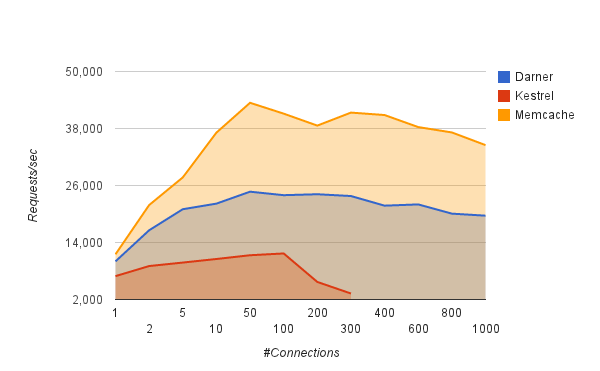
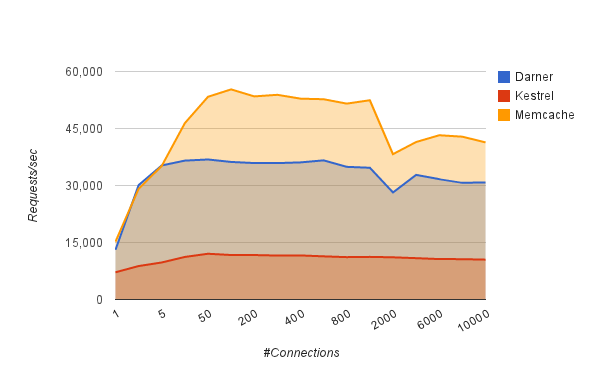
benchmark updates
* use latest Darner
* now that our bencher works better with Kestrel, try even higher concurrency
* express queue packing X-axis as bytes instead of items
* go even further in X-axis of memory resident, queue flooding, queue packing

diff --git a/docs/benchmarks.md b/docs/benchmarks.md
@@ -2,39 +2,43 @@ Benchmark Details:
 
 * [Amazon EC2 m1.large](http://aws.amazon.com/ec2/instance-types/): 7.5GB memory, 2 virtual cores
 * 64-bit Ubuntu 11.10
-* Darner 0.0.1, compiled Boost 1.46 and leveldb 1.5.0
+* Darner 0.1.3, compiled Boost 1.46 and leveldb 1.2.0
 * Kestrel 2.2.0 with OpenJDK 1.6
 
 # Resident Memory
 
 How much memory does the queue server use?  We are testing both steady-state memory resident, and also how aggressively
 the server acquires and releases memory as queues expand and contract.  We tuned Kestrel's JVM down to the smallest
-heap that didn't cause OOM's and didn't impact performance: `-Xmx256m -Xms256m`.
+heap that didn't cause OOM's and didn't impact performance: `-Xmx512m`.
 
 ![Resident Memory Benchmark](/wavii/darner/raw/master/docs/images/bench_memory_resident.png)
 
 ```
-ubuntu@domU-12-31-39-0E-0C-72:~/darner$ bench/mem_rss.sh 
-kestrel       0 requests: 72120 kB
-kestrel    1024 requests: 82348 kB
-kestrel    2048 requests: 113232 kB
-kestrel    4096 requests: 143220 kB
-kestrel    8192 requests: 152852 kB
-kestrel   16384 requests: 171208 kB
-kestrel   32768 requests: 207528 kB
-kestrel   65536 requests: 266344 kB
-kestrel  131072 requests: 366024 kB
-kestrel  262024 requests: 369688 kB
-darner        0 requests: 2216 kB
-darner     1024 requests: 3984 kB
-darner     2048 requests: 6236 kB
-darner     4096 requests: 10732 kB
-darner     8192 requests: 15956 kB
-darner    16384 requests: 20028 kB
-darner    32768 requests: 13324 kB
-darner    65536 requests: 12872 kB
-darner   131072 requests: 17960 kB
-darner   262024 requests: 16232 kB
+ubuntu@ip-10-6-51-186:~/darner$ bench/mem_rss.sh
+kestrel        0 requests: 74476 kB
+kestrel     1024 requests: 84256 kB
+kestrel     2048 requests: 109508 kB
+kestrel     4096 requests: 133492 kB
+kestrel     8192 requests: 160404 kB
+kestrel    16384 requests: 182460 kB
+kestrel    32768 requests: 278340 kB
+kestrel    65536 requests: 330300 kB
+kestrel   131072 requests: 397852 kB
+kestrel   262024 requests: 465148 kB
+kestrel   524048 requests: 520476 kB
+kestrel  1048576 requests: 611612 kB
+darner         0 requests: 2220 kB
+darner      1024 requests: 3492 kB
+darner      2048 requests: 5872 kB
+darner      4096 requests: 8136 kB
+darner      8192 requests: 15520 kB
+darner     16384 requests: 25656 kB
+darner     32768 requests: 27412 kB
+darner     65536 requests: 24324 kB
+darner    131072 requests: 28440 kB
+darner    262024 requests: 28524 kB
+darner    524048 requests: 32104 kB
+kestrel  1048576 requests: 33848 kB
 ```
 
 # Queue Flooding
@@ -48,38 +52,57 @@ kestrel benchmark at 300 concurrent connections - anything higher caused connect
 ```
 ubuntu@domU-12-31-39-0E-0C-72:~/darner$ bench/flood.sh 
 warming up kestrel...done.
-kestrel     1 conns: 6919.94 #/sec (mean)
-kestrel     2 conns: 9042 #/sec (mean)
-kestrel     5 conns: 9775.17 #/sec (mean)
-kestrel    10 conns: 10526.9 #/sec (mean)
-kestrel    50 conns: 11318 #/sec (mean)
-kestrel   100 conns: 11693.2 #/sec (mean)
-kestrel   200 conns: 5696.71 #/sec (mean)
-kestrel   300 conns: 3260.36 #/sec (mean)
-darner      1 conns: 10032.1 #/sec (mean)
-darner      2 conns: 16572.8 #/sec (mean)
-darner      5 conns: 21006.2 #/sec (mean)
-darner     10 conns: 22182.8 #/sec (mean)
-darner     50 conns: 24697.5 #/sec (mean)
-darner    100 conns: 23960.7 #/sec (mean)
-darner    200 conns: 24160.4 #/sec (mean)
-darner    300 conns: 23781.2 #/sec (mean)
-darner    400 conns: 21755.7 #/sec (mean)
-darner    600 conns: 22019.2 #/sec (mean)
-darner    800 conns: 20076.3 #/sec (mean)
-darner   1000 conns: 19648.3 #/sec (mean)
-memcache    1 conns: 11516.1 #/sec (mean)
-memcache    2 conns: 21879.4 #/sec (mean)
-memcache    5 conns: 27700.8 #/sec (mean)
-memcache   10 conns: 37126.4 #/sec (mean)
-memcache   50 conns: 43412.2 #/sec (mean)
-memcache  100 conns: 41126.9 #/sec (mean)
-memcache  200 conns: 38610 #/sec (mean)
-memcache  300 conns: 41347.9 #/sec (mean)
-memcache  400 conns: 40833 #/sec (mean)
-memcache  600 conns: 38299.5 #/sec (mean)
-memcache  800 conns: 37167.8 #/sec (mean)
-memcache 1000 conns: 34506.6 #/sec (mean)
+kestrel      1 conns: 7163.58 #/sec (mean)
+kestrel      2 conns: 8802.04 #/sec (mean)
+kestrel      5 conns: 9742.79 #/sec (mean)
+kestrel     10 conns: 11200.7 #/sec (mean)
+kestrel     50 conns: 12038.8 #/sec (mean)
+kestrel    100 conns: 11705.5 #/sec (mean)
+kestrel    200 conns: 11700 #/sec (mean)
+kestrel    300 conns: 11562.7 #/sec (mean)
+kestrel    400 conns: 11596.9 #/sec (mean)
+kestrel    600 conns: 11357.2 #/sec (mean)
+kestrel    800 conns: 11147 #/sec (mean)
+kestrel   1000 conns: 11218.9 #/sec (mean)
+kestrel   2000 conns: 11101.9 #/sec (mean)
+kestrel   4000 conns: 10879 #/sec (mean)
+kestrel   6000 conns: 10639.4 #/sec (mean)
+kestrel   8000 conns: 10618 #/sec (mean)
+kestrel  10000 conns: 10486.6 #/sec (mean)
+darner       1 conns: 13088.1 #/sec (mean)
+darner       2 conns: 30102.3 #/sec (mean)
+darner       5 conns: 35279.6 #/sec (mean)
+darner      10 conns: 36549.7 #/sec (mean)
+darner      50 conns: 36846 #/sec (mean)
+darner     100 conns: 36199.1 #/sec (mean)
+darner     200 conns: 35906.6 #/sec (mean)
+darner     300 conns: 35893.8 #/sec (mean)
+darner     400 conns: 36081.5 #/sec (mean)
+darner     600 conns: 36616.6 #/sec (mean)
+darner     800 conns: 34910.1 #/sec (mean)
+darner    1000 conns: 34668.1 #/sec (mean)
+darner    2000 conns: 28169 #/sec (mean)
+darner    4000 conns: 32792.3 #/sec (mean)
+darner    6000 conns: 31680.7 #/sec (mean)
+darner    8000 conns: 30726.7 #/sec (mean)
+darner   10000 conns: 30792.9 #/sec (mean)
+memcache     1 conns: 15227.7 #/sec (mean)
+memcache     2 conns: 29133.3 #/sec (mean)
+memcache     5 conns: 35155.6 #/sec (mean)
+memcache    10 conns: 46414.5 #/sec (mean)
+memcache    50 conns: 53347.6 #/sec (mean)
+memcache   100 conns: 55294.4 #/sec (mean)
+memcache   200 conns: 53447.4 #/sec (mean)
+memcache   300 conns: 53864.8 #/sec (mean)
+memcache   400 conns: 52854.1 #/sec (mean)
+memcache   600 conns: 52700.9 #/sec (mean)
+memcache   800 conns: 51546.4 #/sec (mean)
+memcache  1000 conns: 52438.4 #/sec (mean)
+memcache  2000 conns: 38255.5 #/sec (mean)
+memcache  4000 conns: 41442.2 #/sec (mean)
+memcache  6000 conns: 43224.6 #/sec (mean)
+memcache  8000 conns: 42844.9 #/sec (mean)
+memcache 10000 conns: 41347.9 #/sec (mean)
 ```
 
 # Fairness
@@ -91,53 +114,53 @@ below, a flatter curve means each request is more fairly served in time.
 ![Fairness Benchmark](/wavii/darner/raw/master/docs/images/bench_fairness.png)
 
 ```
-ubuntu@domU-12-31-39-0E-0C-72:~/darner$ bench/fairness.sh 
+ubuntu@ip-10-6-51-186:~/darner$ bench/fairness.sh
 warming up kestrel...done.
 kestrel stats:
 Concurrency Level:      10
 Gets:                   0
 Sets:                   100000
-Time taken for tests:   215.285 seconds
+Time taken for tests:   208.706 seconds
 Bytes read:             800000 bytes
-Read rate:              3.62891 Kbytes/sec
+Read rate:              3.7433 Kbytes/sec
 Bytes written:          8700000 bytes
-Write rate:             39.4644 Kbytes/sec
-Requests per second:    464.501 #/sec (mean)
-Time per request:       21503.9 us (mean)
+Write rate:             40.7084 Kbytes/sec
+Requests per second:    479.143 #/sec (mean)
+Time per request:       20868.3 us (mean)
 
 Percentage of the requests served within a certain time (us)
-  50%:    969
-  66%:    1596
-  75%:    2777
-  80%:    5644
-  90%:    34467
-  95%:    90138
-  98%:    299754
-  99%:    473703
- 100%:    1841528 (longest request)
+  50%:    827
+  66%:    1434
+  75%:    1984
+  80%:    2528
+  90%:    8809
+  95%:    45956
+  98%:    163431
+  99%:    341297
+ 100%:    3557554 (longest request)
 darner stats:
 Concurrency Level:      10
 Gets:                   0
 Sets:                   100000
-Time taken for tests:   20.622 seconds
+Time taken for tests:   26.26 seconds
 Bytes read:             800000 bytes
-Read rate:              37.8843 Kbytes/sec
+Read rate:              29.7506 Kbytes/sec
 Bytes written:          8700000 bytes
-Write rate:             411.992 Kbytes/sec
-Requests per second:    4849.19 #/sec (mean)
-Time per request:       2060.75 us (mean)
+Write rate:             323.537 Kbytes/sec
+Requests per second:    3808.07 #/sec (mean)
+Time per request:       2624.35 us (mean)
 
 Percentage of the requests served within a certain time (us)
-  50%:    869
-  66%:    911
-  75%:    944
-  80%:    968
-  90%:    1117
-  95%:    2523
-  98%:    43498
-  99%:    43951
- 100%:    91903 (longest request)
- ```
+  50%:    729
+  66%:    767
+  75%:    817
+  80%:    885
+  90%:    1196
+  95%:    3507
+  98%:    43966
+  99%:    44476
+ 100%:    94989 (longest request)
+```
 
 # Queue Packing
 
@@ -148,20 +171,22 @@ free memory.  Instead it's important for the throughput to flatten out as the ba
 ![Queue Packing Benchmark](/wavii/darner/raw/master/docs/images/bench_queue_packing.png)
 
 ```
-ubuntu@domU-12-31-39-0E-0C-72:~/darner$ bench/packing.sh 
+ubuntu@ip-10-6-51-186:~/darner$ bench/packing.sh
 warming up kestrel...done.
-kestrel       0 sets: 9777.08 #/sec (mean)
-kestrel    4096 sets: 9490.37 #/sec (mean)
-kestrel   16384 sets: 9777.56 #/sec (mean)
-kestrel   65536 sets: 9478.22 #/sec (mean)
-kestrel  262144 sets: 8689.99 #/sec (mean)
-kestrel 1048576 sets: 8735.15 #/sec (mean)
-kestrel 4194304 sets: 8467.04 #/sec (mean)
-darner        0 sets: 16380 #/sec (mean)
-darner     4096 sets: 14951 #/sec (mean)
-darner    16384 sets: 12043.1 #/sec (mean)
-darner    65536 sets: 10691.8 #/sec (mean)
-darner   262144 sets: 10810.8 #/sec (mean)
-darner  1048576 sets: 11152 #/sec (mean)
-darner  4194304 sets: 10980.6 #/sec (mean)
+kestrel        0 sets: 10350.9 #/sec (mean)
+kestrel     4096 sets: 10137.9 #/sec (mean)
+kestrel    16384 sets: 10016.5 #/sec (mean)
+kestrel    65536 sets: 10073 #/sec (mean)
+kestrel   262144 sets: 9243 #/sec (mean)
+kestrel  1048576 sets: 9220.41 #/sec (mean)
+kestrel  4194304 sets: 9000.9 #/sec (mean)
+kestrel 16777216 sets: 7990.73 #/sec (mean)
+darner         0 sets: 25723.5 #/sec (mean)
+darner      4096 sets: 21853.1 #/sec (mean)
+darner     16384 sets: 17792 #/sec (mean)
+darner     65536 sets: 13606.4 #/sec (mean)
+darner    262144 sets: 13798.8 #/sec (mean)
+darner   1048576 sets: 14479.1 #/sec (mean)
+darner   4194304 sets: 13535.5 #/sec (mean)
+darner  16777216 sets: 12786.9 #/sec (mean)
 ```
